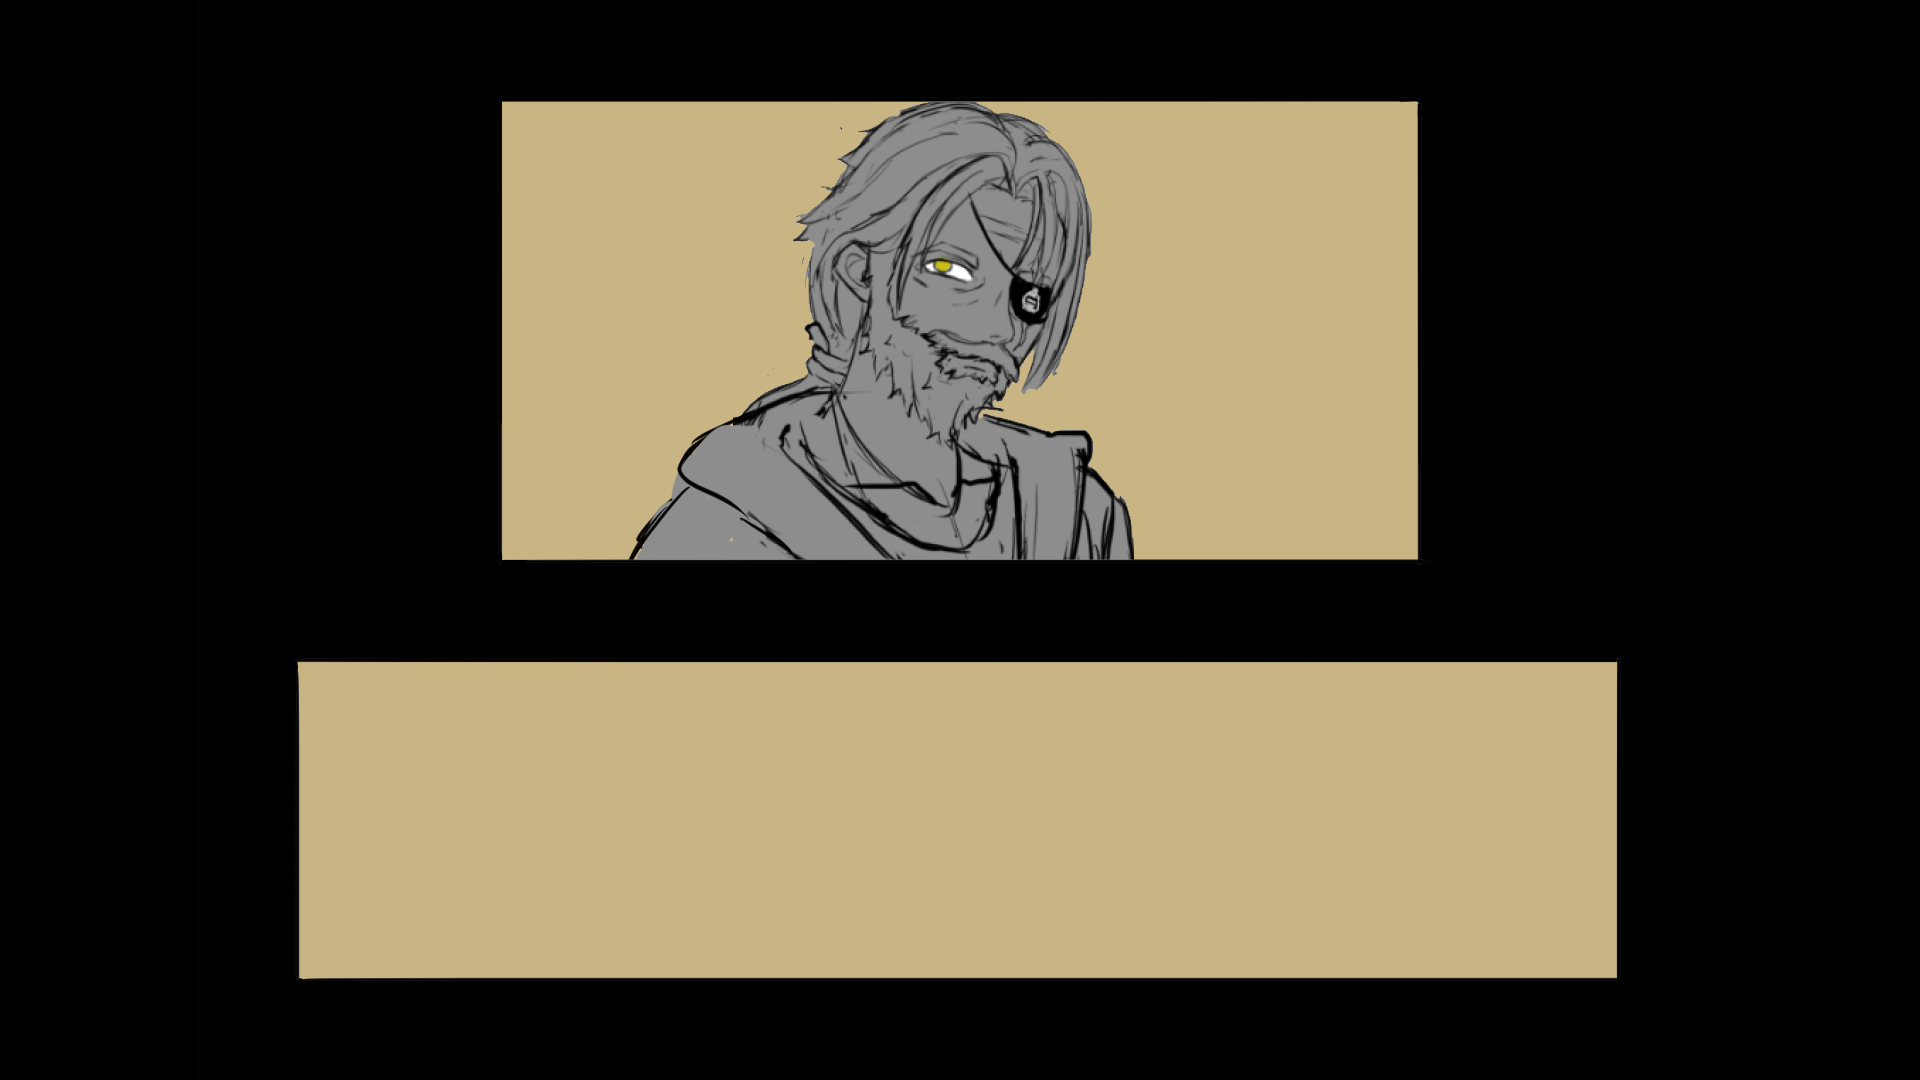
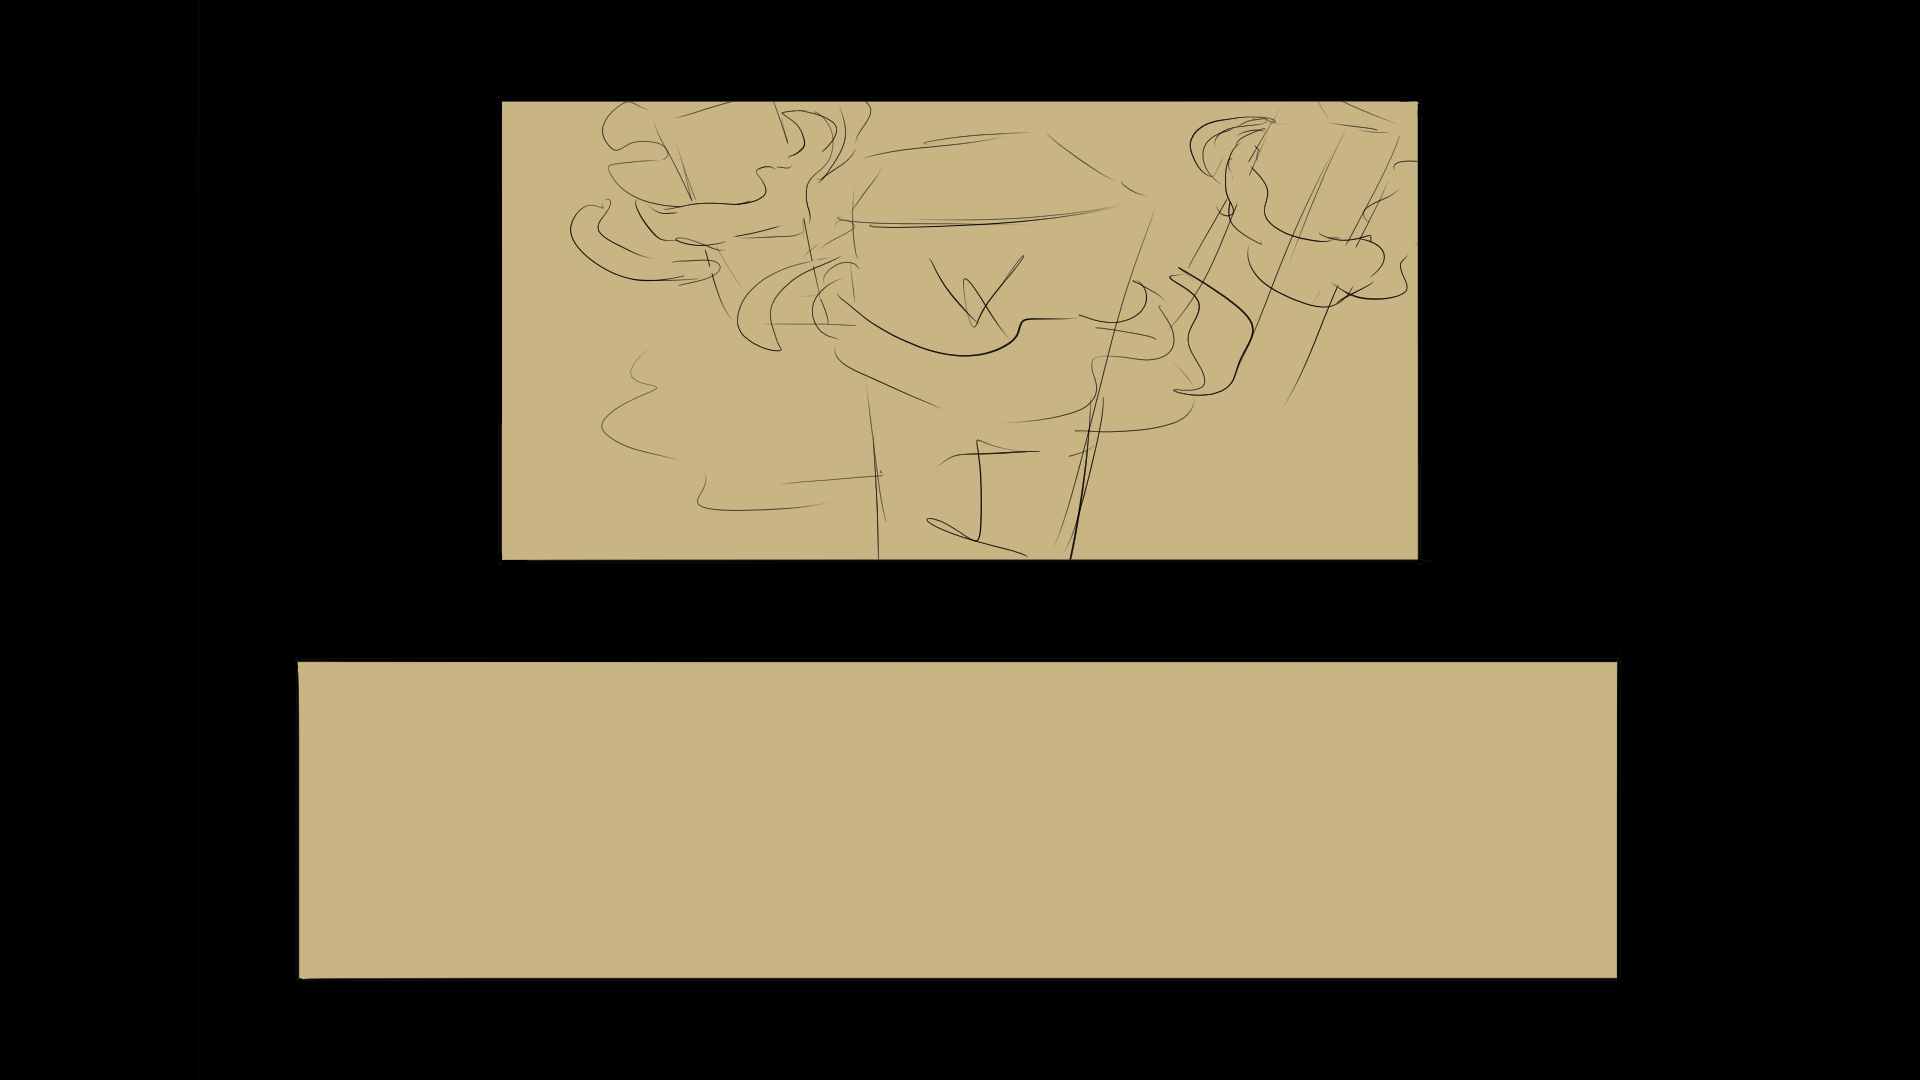
cinem_final

diff --git a/Corrupted Chronos/Assets/Scripts/DIALOGUES/DialogueInvoker.cs b/Corrupted Chronos/Assets/Scripts/DIALOGUES/DialogueInvoker.cs
@@ -15,7 +15,7 @@ public class DialogueInvoker : MonoBehaviour
 
     private void Awake()
     {
-        if(branca == "cinem1")
+        if (branca == "cinem1" || branca=="cinemF")
         {
             GameEventsManager.instance.dialogue_events.EnterDialogue(branca, 0);
         }
